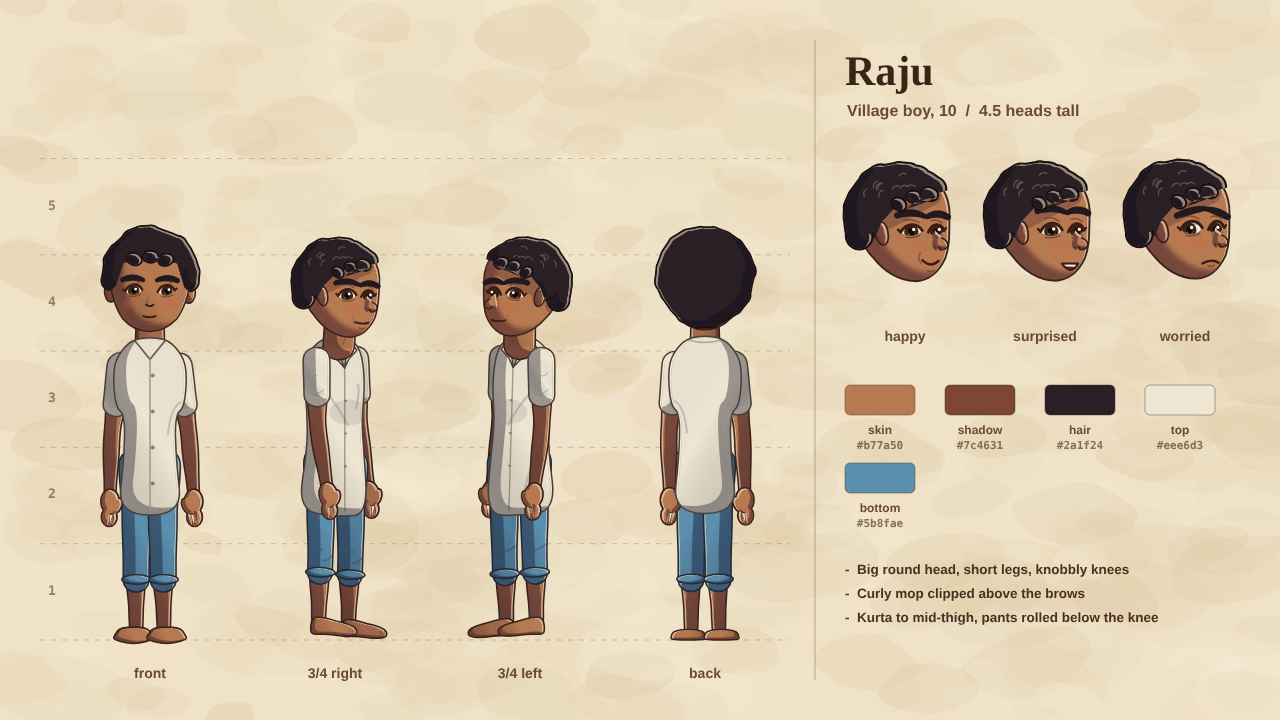
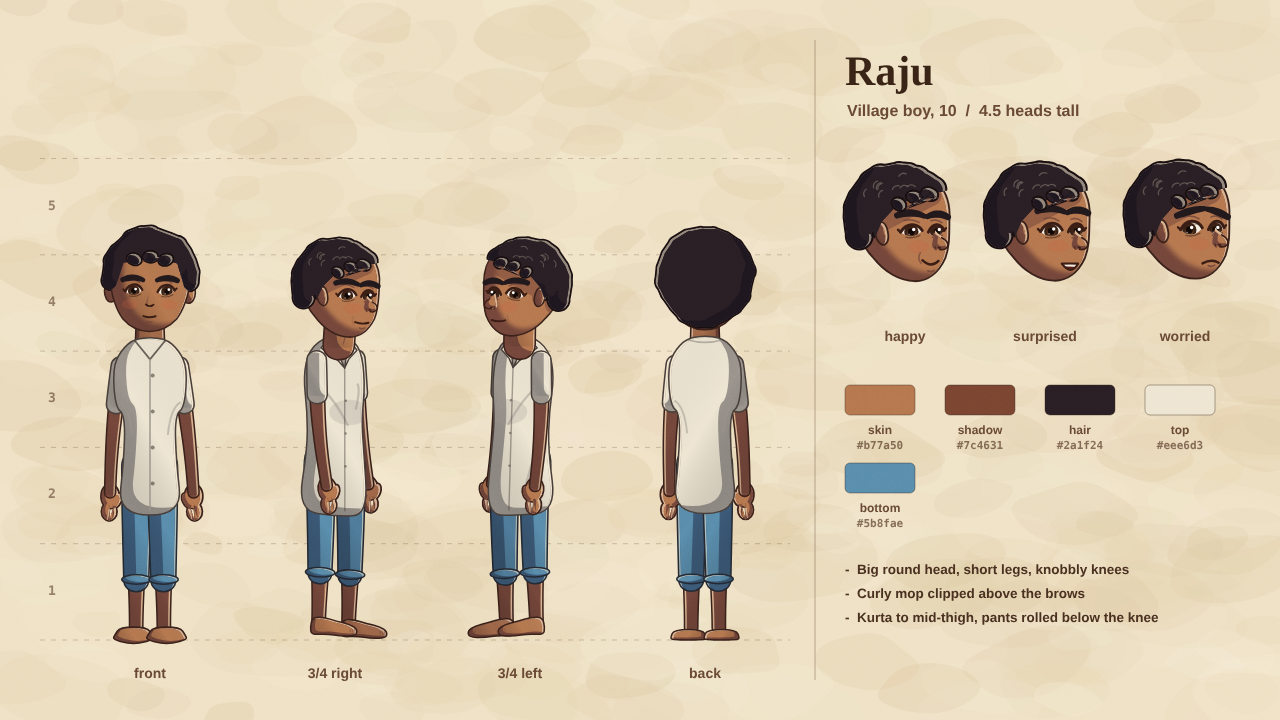
Village study: smooth joints (no elbow/knee pinch) from Tala refs
Claude-Session: https://claude.ai/code/session_01CFreaP4b5SAhinaywDeooY

diff --git a/2d-style-study/village-painterly/03 Mockups/cast.js b/2d-style-study/village-painterly/03 Mockups/cast.js
@@ -312,15 +312,16 @@
   // Half-width profiles in head units, along the limb from root (q=0) to end (q=1).
   // "back" is the side behind the limb (hamstring/calf, triceps), "front" the side in front (quad/shin, biceps).
   const PF = S.prof;
+  // No pinch at the knee or elbow: one smooth taper from root to end, so joints never show.
   const ANAT = {
-    legBack: PF([[0, .25], [.3, .2], [.5, .155], [.65, .16], [.9, .11], [1, .1]]),
-    legFront: PF([[0, .24], [.3, .2], [.5, .15], [.7, .13], [.9, .105], [1, .1]]),
-    jeansBack: PF([[0, .26], [.3, .21], [.6, .19], [1, .18]]),
-    jeansFront: PF([[0, .25], [.3, .2], [.6, .18], [1, .17]]),
-    salwarBack: PF([[0, .32], [.4, .27], [.85, .24], [1, .13]]),
-    salwarFront: PF([[0, .3], [.4, .26], [.85, .23], [1, .12]]),
-    armBack: PF([[0, .17], [.3, .15], [.5, .125], [.65, .125], [1, .09]]),
-    armFront: PF([[0, .16], [.3, .14], [.5, .115], [.65, .115], [1, .088]]),
+    legBack: PF([[0, .2], [1, .1]]),
+    legFront: PF([[0, .19], [1, .1]]),
+    jeansBack: PF([[0, .22], [1, .17]]),
+    jeansFront: PF([[0, .21], [1, .165]]),
+    salwarBack: PF([[0, .27], [.85, .23], [1, .13]]),
+    salwarFront: PF([[0, .26], [.85, .22], [1, .12]]),
+    armBack: PF([[0, .12], [1, .085]]),
+    armFront: PF([[0, .115], [1, .082]]),
   };
   const BW = { kid: .74, man: 1, broad: 1.13, woman: .86, elder: .9 };
 
@@ -380,7 +381,7 @@
 
     const drawLeg = (hp, l, far, footA) => {
       const kn = add(hp, dir(l.a1), thigh), an = add(kn, dir(l.a2), shin);
-      const pts = S.joint(hp, kn, an, 30, .25);
+      const pts = S.joint(hp, kn, an, 30, .7);
       const pt = far ? pantsD : pantsT, st = far ? skD : sk;
       const k = bw * (fem ? 1.05 : 1);
       // bare leg underneath (seen below rolled pants, or for bare legs)
@@ -389,14 +390,14 @@
         celT(c, S.tube2(sub(pts, .55, 1), SC(rescale(ANAT.legBack, .55, 1), k), SC(rescale(ANAT.legFront, .55, 1), k)), st, Lt, u);
         const pq = .68, top = sub(pts, 0, pq);
         celT(c, S.tube2(top, SC(rescale(ANAT.jeansBack, 0, pq), k), SC(rescale(ANAT.jeansFront, 0, pq), k)), pt, Lt, u, {
-          over: c2 => { folds(c2, top, pt, u, pq); }
+          
         });
         const cp = pts[Math.round(pq * (pts.length - 1))];
         celT(c, S.ell(cp[0], cp[1], .22 * u * k, .07 * u * k, -l.a2), pt, Lt, u, { swk: .3 });
       } else if (fem) {
-        celT(c, S.tube2(pts, SC(ANAT.salwarBack, k), SC(ANAT.salwarFront, k)), pt, Lt, u, { over: c2 => folds(c2, pts, pt, u, 1) });
+        celT(c, S.tube2(pts, SC(ANAT.salwarBack, k), SC(ANAT.salwarFront, k)), pt, Lt, u);
       } else if (!ch.mundu) {
-        celT(c, S.tube2(pts, SC(ANAT.jeansBack, k), SC(ANAT.jeansFront, k)), pt, Lt, u, { over: c2 => folds(c2, pts, pt, u, 1) });
+        celT(c, S.tube2(pts, SC(ANAT.jeansBack, k), SC(ANAT.jeansFront, k)), pt, Lt, u);
       } else {
         celT(c, bare, st, Lt, u); // mundu covers this, but the shin shows when the cloth swings
       }
@@ -418,18 +419,18 @@
     const drawArm = (sh, a1d, eld, far, holdFn) => {
       const a1 = a1d * D, a2 = (a1d + Math.max(0, eld)) * D;
       const el = add(sh, dir(a1), B.up * u), wr = add(el, dir(a2), B.fore * u);
-      const pts = S.joint(sh, el, wr, 30, .25);
+      const pts = S.joint(sh, el, wr, 30, .7);
       const st = far ? skD : sk, sht = far ? shirtD : shirtT, k = bw * (fem ? .9 : 1);
+      if (holdFn) holdFn(wr, a2);
+      hand(c, add(wr, dir(a2), -.08 * u), a2, u, (kid ? .5 : fem ? .54 : .62) * u, st, Lt, 0, holdFn ? .6 : 0);
       if (ch.long) {
-        celT(c, S.tube2(pts, q => (ANAT.armBack(q) + .03) * u * k, q => (ANAT.armFront(q) + .03) * u * k), sht, Lt, u, { over: c2 => folds(c2, pts, sht, u * .7, 1) });
+        celT(c, S.tube2(pts, q => (ANAT.armBack(q) + .03) * u * k, q => (ANAT.armFront(q) + .03) * u * k), sht, Lt, u);
       } else {
         celT(c, S.tube2(pts, SC(ANAT.armBack, k), SC(ANAT.armFront, k)), st, Lt, u);
         const sq = kid ? .28 : .32, top = sub(pts, 0, sq);
-        celT(c, S.tube2(top, q => (ANAT.armBack(q * sq) + .035 + .015 * q) * u * k, q => (ANAT.armFront(q * sq) + .035 + .015 * q) * u * k), sht, Lt, u, { over: c2 => folds(c2, top, sht, u * .6, sq) });
+        celT(c, S.tube2(top, q => (ANAT.armBack(q * sq) + .03 + .01 * q) * u * k, q => (ANAT.armFront(q * sq) + .03 + .01 * q) * u * k), sht, Lt, u);
       }
       if (ch.bangles && !far) { c.save(); const bp = add(wr, dir(a2), -B.fore * u * .1); c.translate(bp[0], bp[1]); c.rotate(-a2); c.strokeStyle = '#e0b04a'; c.lineWidth = u * .022; for (let i = 0; i < 2; i++) { c.beginPath(); c.ellipse(0, i * u * .035, .1 * u, u * .028, 0, 0, S.TAU); c.stroke(); } c.restore(); }
-      if (holdFn) holdFn(wr, a2);
-      hand(c, add(wr, dir(a2), -.02 * u), a2, u, (kid ? .5 : fem ? .54 : .62) * u, st, Lt, 0, holdFn ? .6 : 0);
       return { el, wr, a2 };
     };
 
@@ -638,7 +639,7 @@
 
     // legs
     const legX = hpW * .5;
-    const legPts = s => { const h = [s * legX, hipY], k = [s * legX * 1.04, hipY + legLen * .5], a = [s * legX * 1.08, -footH]; return S.joint(h, k, a, 30, .2); };
+    const legPts = s => { const h = [s * legX, hipY], k = [s * legX * 1.04, hipY + legLen * .5], a = [s * legX * 1.08, -footH]; return S.joint(h, k, a, 30, .7); };
     const footF = s => { const ax = s * legX * 1.08, len = (kid ? .5 : fem ? .54 : .6) * u, w = (kid ? .2 : .22) * u;
       const sh = !!ch.shoes, ft = sh ? tone(ch.shoes, Lt) : sk;
       const pts = back ? [[-w * .8, -footH * .9], [w * .8, -footH * .9], [w, -footH * .2], [w * .9, 0], [-w * .9, 0], [-w, -footH * .2]]
@@ -658,7 +659,7 @@
       } else if (fem) {
         celT(c, S.tube2(pts, SCw(ANAT.salwarBack, k), SCw(ANAT.salwarFront, k)), pantsT, Lt, u);
       } else {
-        celT(c, S.tube2(pts, SCw(ANAT.jeansBack, k), SCw(ANAT.jeansFront, k)), pantsT, Lt, u, { over: c2 => { c2.strokeStyle = S.rgba(pantsT.shade, .55); c2.lineWidth = u * .02; c2.beginPath(); const kp = pts[Math.round(pts.length * .5)]; c2.moveTo(kp[0] - .08 * u, kp[1]); c2.quadraticCurveTo(kp[0], kp[1] + .04 * u, kp[0] + .08 * u, kp[1]); c2.stroke(); } });
+        celT(c, S.tube2(pts, SCw(ANAT.jeansBack, k), SCw(ANAT.jeansFront, k)), pantsT, Lt, u);
       }
       footF(s);
     }
@@ -673,14 +674,14 @@
     const arm = s => {
       const sh = [s * (shW - .13 * u * bw), neckY + .3 * u], sway = Math.sin(t * .9 + s) * .02 * u;
       const el = [sh[0] + s * .1 * u + sway, sh[1] + B.up * u], wr = [el[0] + s * .02 * u + sway * 1.5, el[1] + B.fore * u];
-      const pts = S.joint(sh, el, wr, 30, .2), k = bw * (fem ? .9 : 1);
+      const pts = S.joint(sh, el, wr, 30, .7), k = bw * (fem ? .9 : 1);
+      c.save(); c.translate(wr[0], wr[1]); c.scale(-s, 1);
+      hand(c, [0, -.08 * u], 0, u, (kid ? .5 : fem ? .54 : .62) * u, sk, Object.assign({}, Lt, { L: [Lt.L[0] * -s, Lt.L[1]] }), 0, 0);
+      c.restore();
       celT(c, S.tube2(pts, SCw(ANAT.armBack, k), SCw(ANAT.armFront, k)), sk, Lt, u);
       if (ch.long) celT(c, S.tube2(pts.slice(0, Math.round(pts.length * .92)), q => (ANAT.armBack(q) + .04) * u * k, q => (ANAT.armFront(q) + .04) * u * k), shirtT, Lt, u);
-      else { const sq = kid ? .28 : .32, top = pts.slice(0, Math.round(pts.length * sq) + 1); celT(c, S.tube2(top, q => (ANAT.armBack(q * sq) + .045) * u * k, q => (ANAT.armFront(q * sq) + .045) * u * k), shirtT, Lt, u); }
+      else { const sq = kid ? .28 : .32, top = pts.slice(0, Math.round(pts.length * sq) + 1); celT(c, S.tube2(top, q => (ANAT.armBack(q * sq) + .035) * u * k, q => (ANAT.armFront(q * sq) + .035) * u * k), shirtT, Lt, u); }
       if (ch.bangles) { c.save(); c.strokeStyle = '#e0b04a'; c.lineWidth = u * .022; for (let i = 0; i < 2; i++) { c.beginPath(); c.ellipse(wr[0], wr[1] - .1 * u + i * .035 * u, .1 * u, .028 * u, 0, 0, S.TAU); c.stroke(); } c.restore(); }
-      c.save(); c.translate(wr[0], wr[1]); c.scale(-s, 1);
-      hand(c, [0, -.02 * u], 0, u, (kid ? .5 : fem ? .54 : .62) * u, sk, Object.assign({}, Lt, { L: [Lt.L[0] * -s, Lt.L[1]] }), 0, 0);
-      c.restore();
     };
     for (const s of [-1, 1]) arm(s);
 

diff --git a/2d-style-study/village-painterly/03 Mockups/character-sheet.html b/2d-style-study/village-painterly/03 Mockups/character-sheet.html
@@ -78,7 +78,8 @@ footer { margin-top: 60px; color: var(--muted); font-size: 14px; }
   <ul>
     <li><b>Heads tall:</b> boy 4.5, adults 5.7 to 6. Cartoon heads stay a little big, so adults are 6 heads, not the real 7.5.</li>
     <li><b>Torso:</b> shoulder, chest, waist, hip. Men are widest at the shoulder; the mother is widest at the hip.</li>
-    <li><b>Limbs:</b> simple tubes with a gentle taper to the wrist and ankle, no bulging muscles. The clothes make the silhouette, not the muscles.</li>
+    <li><b>Limbs (from the Tala sheets):</b> one smooth taper from shoulder to wrist and hip to ankle. No pinch, bump or crease at the elbow or knee, so joints never show. Bends are wide, soft curves.</li>
+    <li><b>Hands:</b> tucked under the end of the sleeve or arm, so there is no seam at the wrist.</li>
     <li><b>Arms:</b> hang close to the body and reach mid-thigh, with a slight bend at the elbow.</li>
     <li><b>Hands and feet:</b> a hand is about two thirds of a face. Feet are short and rounded, a little over half a head long.</li>
     <li><b>Stance:</b> legs straight with a small gap between them, feet under the hips.</li>
